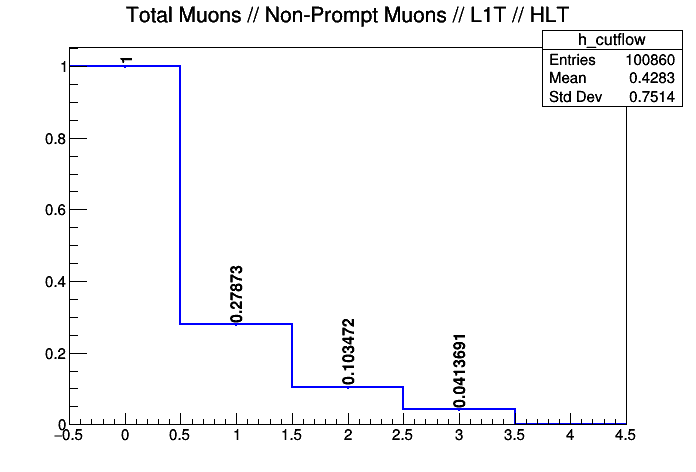
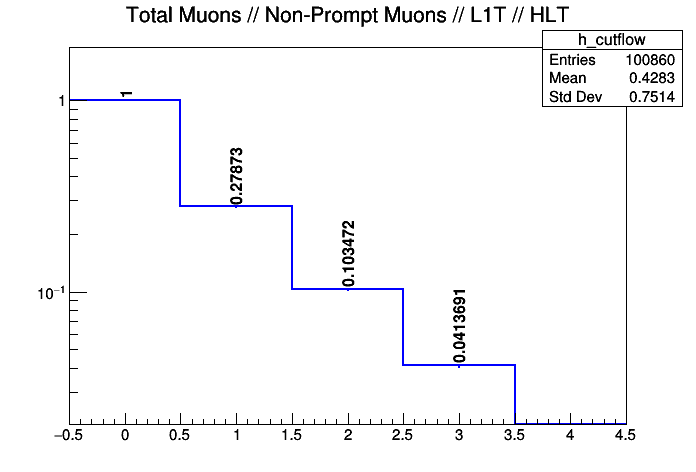
Expanded cuts into loose and tight triggers

diff --git a/snek.py b/snek.py
@@ -87,7 +87,8 @@ def main(batch=0):
         "h_mu_pt": histo('h_mu_pt', 'Muon pT;pT (GeV);Events', mu_pt_bins),
         "h_mu_pt_eta": histo('h_mu_pt_eta', 'Muon pT (|eta| < 1.5);pT (GeV);Events', mu_pt_bins),
         "h_met": histo('h_met', 'MET;Missing Transverse Energy (Gev);Events; ', [200,0,200]),
-        "h_cutflow": histo('h_cutflow', 'Total Muons // Non-Prompt Muons // L1T // HLT', [5,-0.5,4.5])
+        "h_cutflow_l": histo('h_cutflow_l', 'Total Muons // Non-Prompt Muons // Loose L1T // HLT', [5,-0.5,4.5]),
+        "h_cutflow_t": histo('h_cutflow_t', 'Total Muons // Non-Prompt Muons // Tight L1T // HLT', [5,-0.5,4.5])
     }
 
 #############
@@ -119,7 +120,8 @@ def main(batch=0):
 
             ## Fill pre-cut histos
             plots["h_met"].cfill(ch.MET_pt)
-            plots["h_cutflow"].cfill(0)
+            plots["h_cutflow_l"].cfill(0)
+            plots["h_cutflow_t"].cfill(0)
 
             ## Looking for 'A' (Spoilers: It's PDG ID = 36)
             #for iGen in range(nGen):
@@ -160,7 +162,9 @@ def main(batch=0):
             goodMu = []
             promptCut=False
             L1TCut=False
+            L1TCutT=False
             HLTCut=False
+            HLTCutT=False
             for iMu in range(nMuons):
 
                 ## Get variable quantities out of the tree
@@ -179,21 +183,37 @@ def main(batch=0):
                         badMu = True        ## This muon comes from something we're not interested in
                         break
                 if badMu:
-                    continue        ## Skip to the next muon if this one isn't wanted
+                    continue            ## Skip to the next muon if this one isn't wanted
                 else:
-                    promptCut = True  ## Otherwise, mark that the cut passed
+                    promptCut = True    ## Otherwise, mark that the cut passed
 
-                ## L1Trigger cut based on L1_SingleMu6er1p5
+                ## L1Trigger cut based on L1_SingleMu6er1p5 (loose)
                 if (abs(mu_eta) > 1.5) or (abs(mu_pt) < 6.0):
                     badMu = True
-                    continue
-                L1TCut = True
+                    continue      
+                else:
+                    L1TCut = True
 
-                ## HLT cut based on HLT_Mu7_IP4
+                ## L1Trigger cut based on L1_vSingleMu18er1p5 (tight)
+                if (abs(mu_eta) > 1.5) or (abs(mu_pt) < 18.0):
+                    badMu = True
+                    #continue           ## Failing a tight trigger can still allow loose trigger data to be collected
+                else:
+                    L1TCutT = True
+
+                ## HLT cut based on HLT_Mu7_IP4 (loose)
                 if (abs(mu_pt) < 7.0) or (mu_sip < 4):
                     badMu = True
                     continue
-                HLTCut = True
+                else:
+                    HLTCut = True
+
+                ## HLT cut based on HLT_Mu12_IP6 (tight)
+                if ((abs(mu_pt) < 12.0) or (mu_sip < 6)) and not badMu:
+                    badMu = True
+                    #continue
+                elif not badMu:
+                    HLTCutT = True
 
                 goodMu.append(iMu)          ## This muon passes all of our cuts, so we save it
 
@@ -208,11 +228,16 @@ def main(batch=0):
 
             ## Fill cut flow plots based on what was passed (order matters)
             if promptCut:
-                plots["h_cutflow"].cfill(1) 
+                plots["h_cutflow_l"].cfill(1) 
+                plots["h_cutflow_t"].cfill(1)
             if L1TCut:
-                plots["h_cutflow"].cfill(2)
+                plots["h_cutflow_l"].cfill(2)
+            if L1TCutT:
+                plots["h_cutflow_t"].cfill(2)
             if HLTCut:
-                plots["h_cutflow"].cfill(3) 
+                plots["h_cutflow_l"].cfill(3)
+            if HLTCutT: 
+                plots["h_cutflow_t"].cfill(3)
 
             ## End loop over RECO muons pairs (iMu)
             
@@ -225,8 +250,10 @@ def main(batch=0):
 ## Histogram formatting
 #######################
 
-    plots["h_cutflow"].h.Scale(1.0/plots["h_cutflow"].h.GetBinContent(1))
-    plots["h_cutflow"].h.SetMarkerSize(1.8)
+    plots["h_cutflow_l"].h.Scale(1.0/plots["h_cutflow_l"].h.GetBinContent(1))
+    plots["h_cutflow_l"].h.SetMarkerSize(1.8)
+    plots["h_cutflow_t"].h.Scale(1.0/plots["h_cutflow_t"].h.GetBinContent(1))
+    plots["h_cutflow_t"].h.SetMarkerSize(1.8)
 
 ######################
 ## Save the histograms
@@ -242,13 +269,15 @@ def main(batch=0):
 
     ## Example of plotting something that needs specific settings
     canv.cd()
-    hist = plots.pop("h_cutflow")
+    hist = plots.pop("h_cutflow_l")
+    hist.saveplot(canv, png_dir, drawop="htext")
+    hist = plots.pop("h_cutflow_t")
     hist.saveplot(canv, png_dir, drawop="htext")
 
     ## Generic plotting loop, for your histos that don't have anything special    
-    canvY.cd()
+    canv.cd()
     for i in plots:
-        plots[i].saveplot(canvY, png_dir)
+        plots[i].saveplot(canv, png_dir)
 
     del out_file
 
